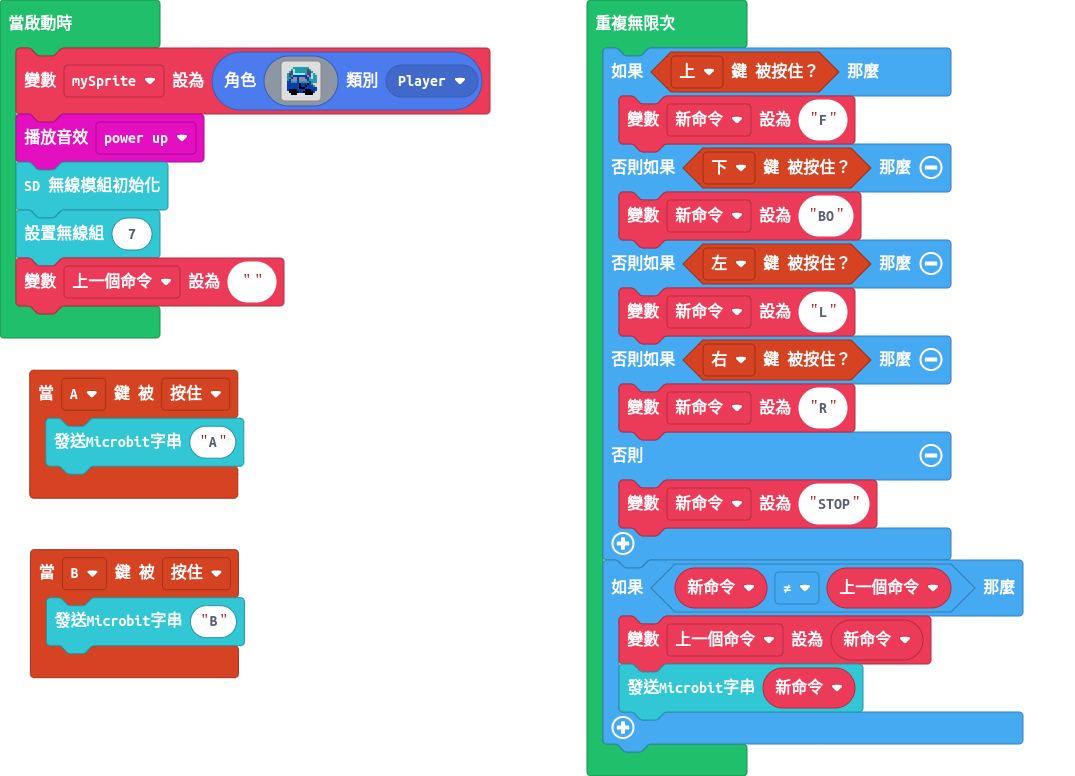
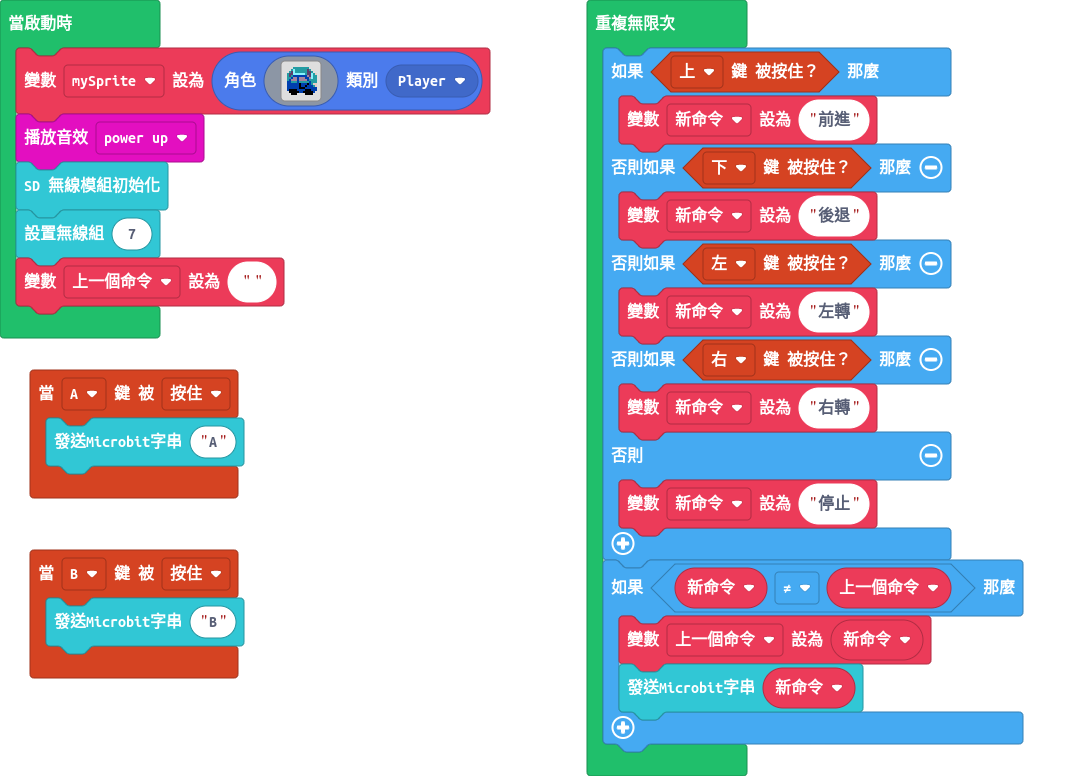
命令改中文

diff --git a/main.ts b/main.ts
@@ -29,15 +29,15 @@ sdwireless.sdw_set_radiogp(7)
 let 上一個命令 = ""
 forever(function () {
     if (controller.up.isPressed()) {
-        新命令 = "F"
+        新命令 = "前進"
     } else if (controller.down.isPressed()) {
-        新命令 = "BO"
+        新命令 = "後退"
     } else if (controller.left.isPressed()) {
-        新命令 = "L"
+        新命令 = "左轉"
     } else if (controller.right.isPressed()) {
-        新命令 = "R"
+        新命令 = "右轉"
     } else {
-        新命令 = "STOP"
+        新命令 = "停止"
     }
     if (新命令 != 上一個命令) {
         上一個命令 = 新命令

diff --git a/tilemap.g.ts b/tilemap.g.ts
@@ -1,7 +1,14 @@
-// Auto-generated code. Do not edit.
+// 自動生成的代碼。請勿編輯。
 namespace myTiles {
     //% fixedInstance jres blockIdentity=images._tile
     export const transparency16 = image.ofBuffer(hex``);
 
+    helpers._registerFactory("tile", function(name: string) {
+        switch(helpers.stringTrim(name)) {
+            case "transparency16":return transparency16;
+        }
+        return null;
+    })
+
 }
-// Auto-generated code. Do not edit.
+// 自動生成的代碼。請勿編輯。
